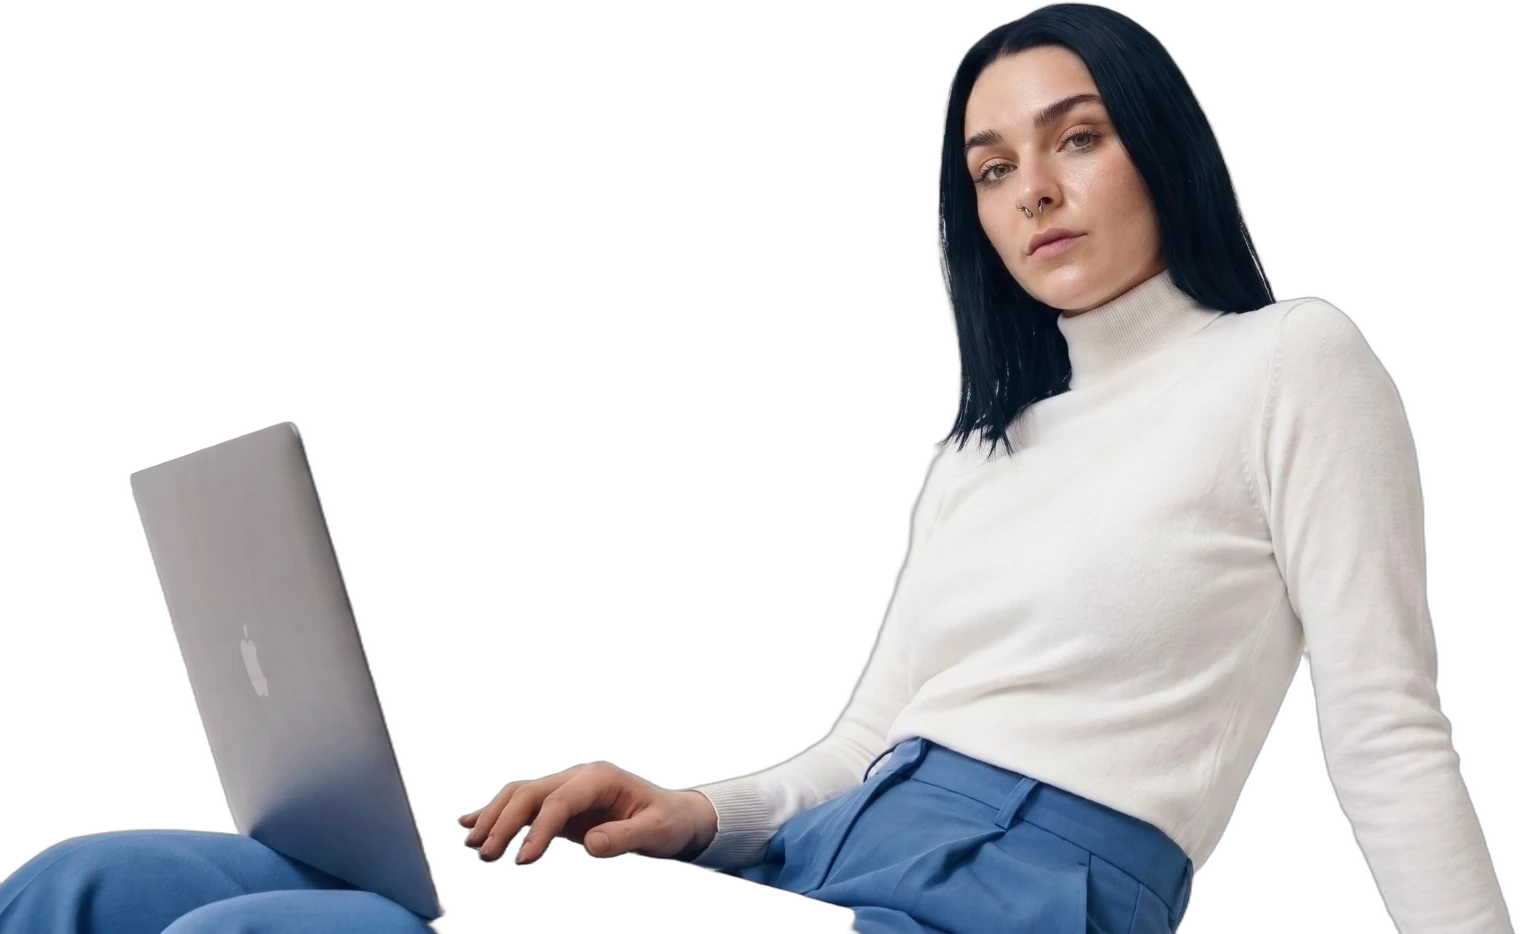
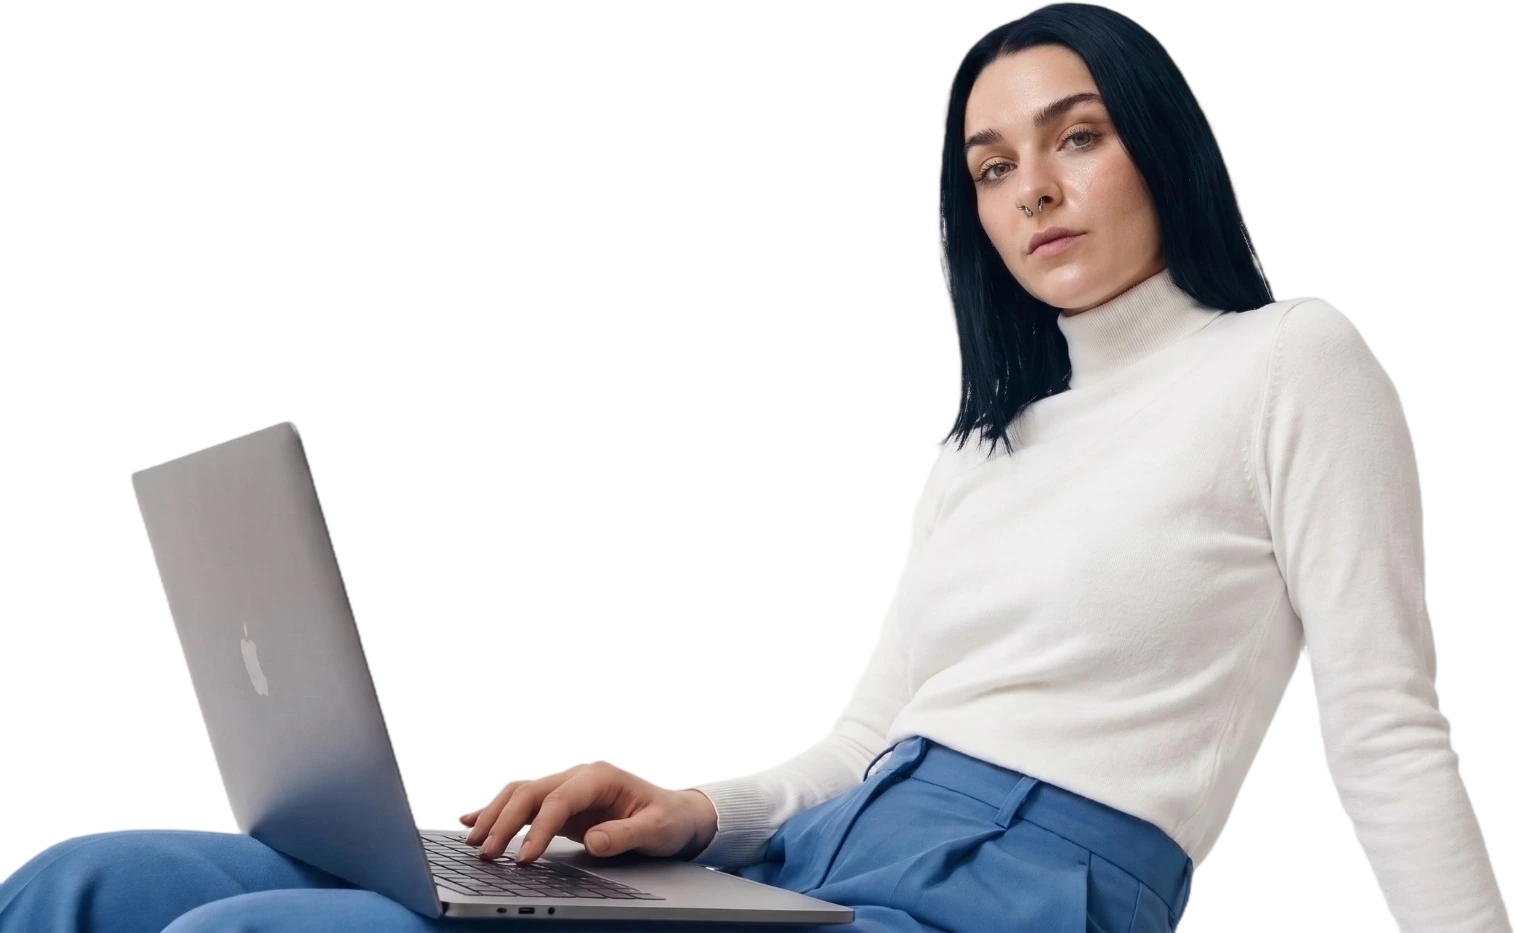
UGC v17: recorte limpio de Diana, hero azul sólido e intro blanca
Claude-Session: https://claude.ai/code/session_01YcKiQFBhJYcwdpxSvLqgLC

diff --git a/public/ugc-v17/index.html b/public/ugc-v17/index.html
@@ -108,14 +108,14 @@ img,video{display:block;max-width:100%}
 .sublink__line{position:absolute;left:0;bottom:0;width:100%;height:1px;background:var(--ink);transform:translateX(-101%)}
 
 /* ===== Hero: título gigante, carrusel de tarjetas tech detrás y Diana sin fondo al frente ===== */
-.hero{position:relative;height:100vh;height:100svh;min-height:42em;max-height:70em;overflow:hidden;background:linear-gradient(180deg,var(--sky) 0%,var(--sky) 32%,#ffffff 100%)}
-.hero__title{position:absolute;left:0;right:0;top:8.6vw;z-index:1;text-align:center;font-size:13.4vw;font-weight:500;line-height:.9;letter-spacing:-.065em;white-space:nowrap;color:var(--ink)}
+.hero{position:relative;height:100vh;height:100svh;min-height:42em;max-height:70em;overflow:hidden;background:var(--sky)}  /* azul completo; abajo corta limpio con la sección blanca */
+.hero__title{position:absolute;left:0;right:0;top:9vw;z-index:1;text-align:center;font-size:12.2vw;font-weight:500;line-height:.9;letter-spacing:-.065em;white-space:nowrap;color:var(--ink)}
 .hero__title span{display:inline-block}
 .hero__strip{position:absolute;left:0;right:0;top:44%;z-index:2;overflow:hidden;padding:2em 0}
 .hero__track{display:flex;width:max-content;animation:strip 60s linear infinite}
 .hero__group{display:flex;align-items:center;gap:1.6em;padding-right:1.6em}
 @keyframes strip{to{transform:translateX(-50%)}}
-.hero__model{position:absolute;left:50%;bottom:0;z-index:3;width:auto;height:min(78%,52vw);max-width:none;transform:translateX(-46%);pointer-events:none;user-select:none;-webkit-mask-image:linear-gradient(90deg,transparent 0,#000 12%);mask-image:linear-gradient(90deg,transparent 0,#000 12%)}  /* la orilla izquierda de la foto se desvanece */
+.hero__model{position:absolute;left:max(0px,calc(50% - min(78vh,52vw) * 1.07));bottom:0;z-index:3;width:auto;height:min(78%,52vw);max-width:none;pointer-events:none;user-select:none}  /* la orilla izquierda de la foto (piernas cortadas) queda pegada al borde */
 /* Tarjetas tipo interfaz: vidrio blanco, esquinas suaves */
 .ui{flex:none;position:relative;width:14em;height:12.5em;border-radius:1.4em;overflow:hidden;font-family:var(--body);font-weight:400;color:var(--ink);background:rgba(255,255,255,.62);border:1px solid rgba(255,255,255,.9);box-shadow:0 1.2em 2.4em -1.2em rgba(40,80,120,.25);-webkit-backdrop-filter:blur(14px);backdrop-filter:blur(14px)}
 .ui.is--photo{width:12em;height:14.5em;border:0;background:none}
@@ -156,7 +156,7 @@ img,video{display:block;max-width:100%}
 .ui.is--lime{background:var(--lime);border:0}
 
 /* ===== Intro con números ===== */
-.intro{padding:7em 0 6em;text-align:center}
+.intro{position:relative;z-index:1;padding:7em 0 6em;text-align:center;background:#fff}  /* siempre blanca, entre el hero azul y el slider */
 .intro__text{max-width:20em;margin:0 auto;font-size:3.6em;font-weight:500;line-height:1.1;letter-spacing:-.04em;text-wrap:balance}
 .intro__text em{font-style:normal;color:var(--muted)}
 .intro__stats{display:flex;justify-content:center;gap:4em;margin-top:2.6em}
@@ -263,7 +263,7 @@ img,video{display:block;max-width:100%}
   .hero__title{top:27vw;font-size:21vw;line-height:.88;white-space:normal}
   .hero__title span{display:block}
   .hero__strip{top:47%;font-size:.78em}
-  .hero__model{height:auto;width:215vw;transform:translateX(-64%);-webkit-mask-image:none;mask-image:none}
+  .hero__model{left:50%;height:auto;width:215vw;transform:translateX(-64%)}
   .intro{padding:5em 0 4em}
   .intro__text{font-size:3.6em}
   .intro__stats{gap:2.6em}
